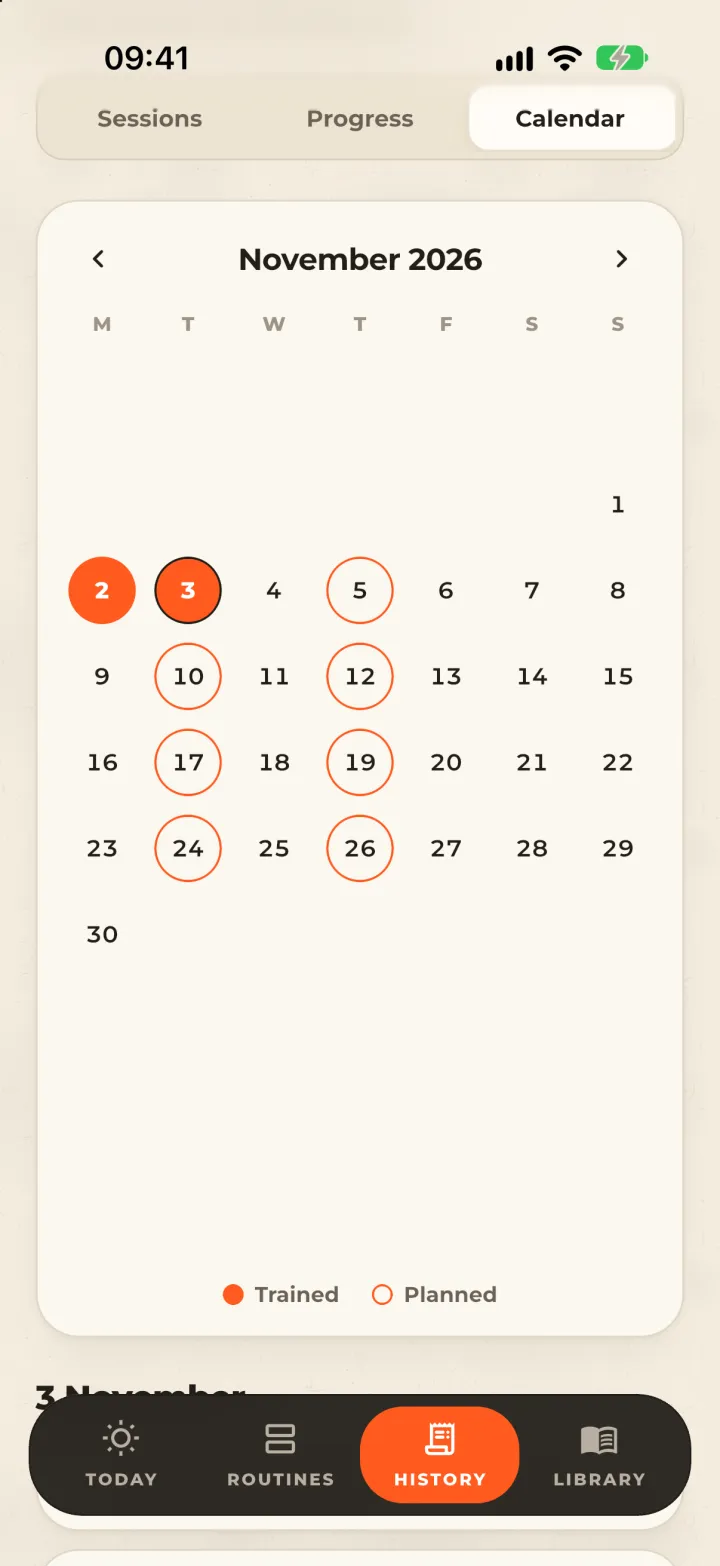
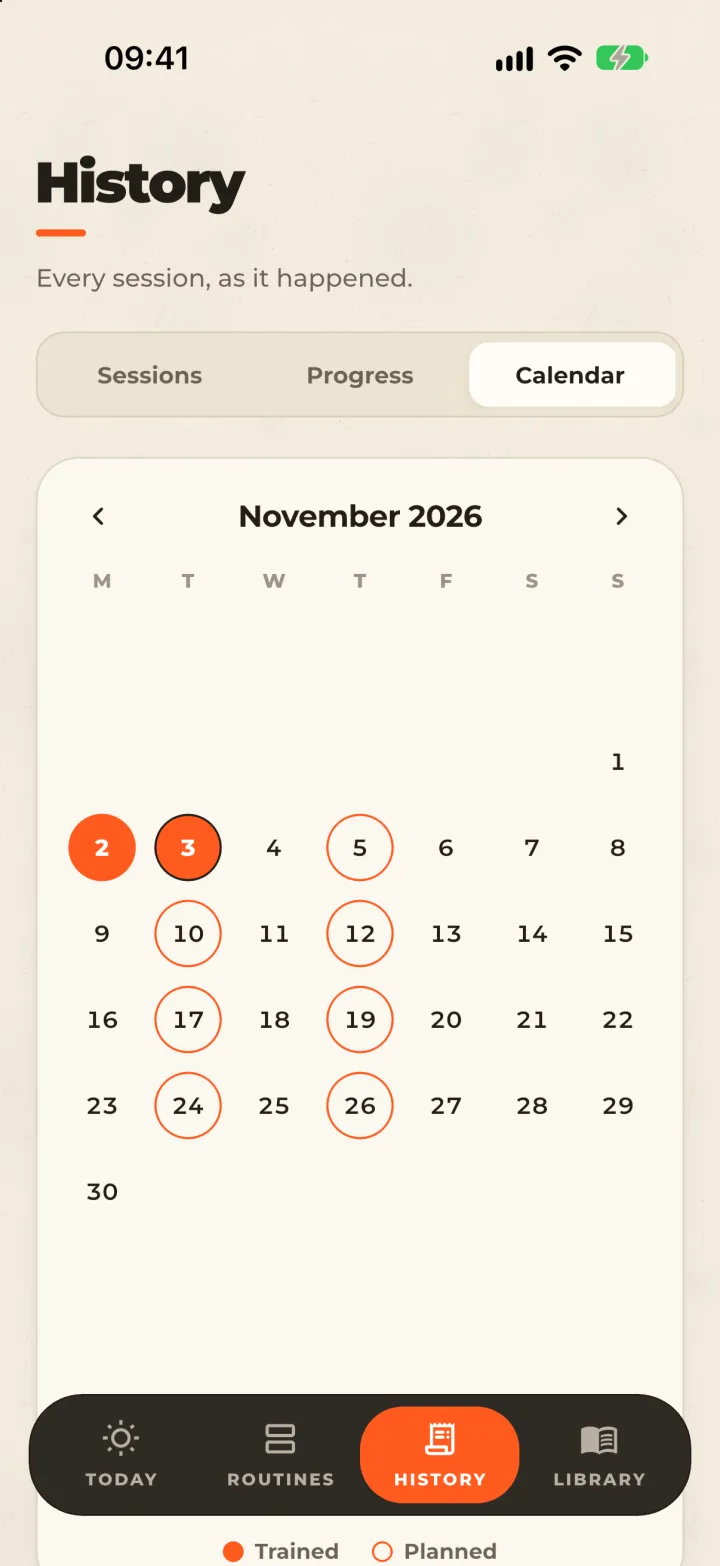
Refresh neFaRec screens after the app's fixes
Retaken prototype screens show readable How-to steps, singular "1 set",
the receipt stamp clear of the totals and the stacked Form check buttons.
The Form check and set-tick hotspots follow the new workout layout, and
History opens the newest session.

diff --git a/js/app-prototypes.js b/js/app-prototypes.js
@@ -228,8 +228,8 @@
                     { id: 'minimise', label: 'Minimise the workout', to: 'back', x: 2, y: 7.5, w: 10, h: 5 },
                     { id: 'how-to', label: 'How to', to: '10-how-to', t: 'sheet', x: 61, y: 51, w: 14, h: 4.5 },
                     { id: 'swap', label: 'Swap exercise', to: '11-swap-sheet', t: 'sheet', x: 5, y: 55.5, w: 17, h: 4 },
-                    { id: 'form-check', label: 'Form check', to: '27-form-check', x: 5, y: 59.5, w: 23, h: 4.5 },
-                    { id: 'tick', label: 'Complete set 3', to: '13-rest-countdown', t: 'fade', x: 81, y: 81.5, w: 15, h: 6.5 }
+                    { id: 'form-check', label: 'Form check', to: '27-form-check', x: 61, y: 55.5, w: 34, h: 4.5 },
+                    { id: 'tick', label: 'Complete set 3', to: '13-rest-countdown', t: 'fade', x: 81, y: 80.5, w: 15, h: 6 }
                 ]
             },
             '09b-workout-video': {
@@ -283,7 +283,7 @@
                 label: 'History',
                 hotspots: [
                     ...nefaHistory('sessions'),
-                    { id: 'session', label: 'Open Monday — Push', to: '23-session-detail', x: 5, y: 68, w: 90, h: 9.5 },
+                    { id: 'session', label: 'Open Thursday — Legs', to: '23-session-detail', x: 5, y: 45.5, w: 90, h: 9.5 },
                     ...nefaTabs('tab-history')
                 ]
             },
